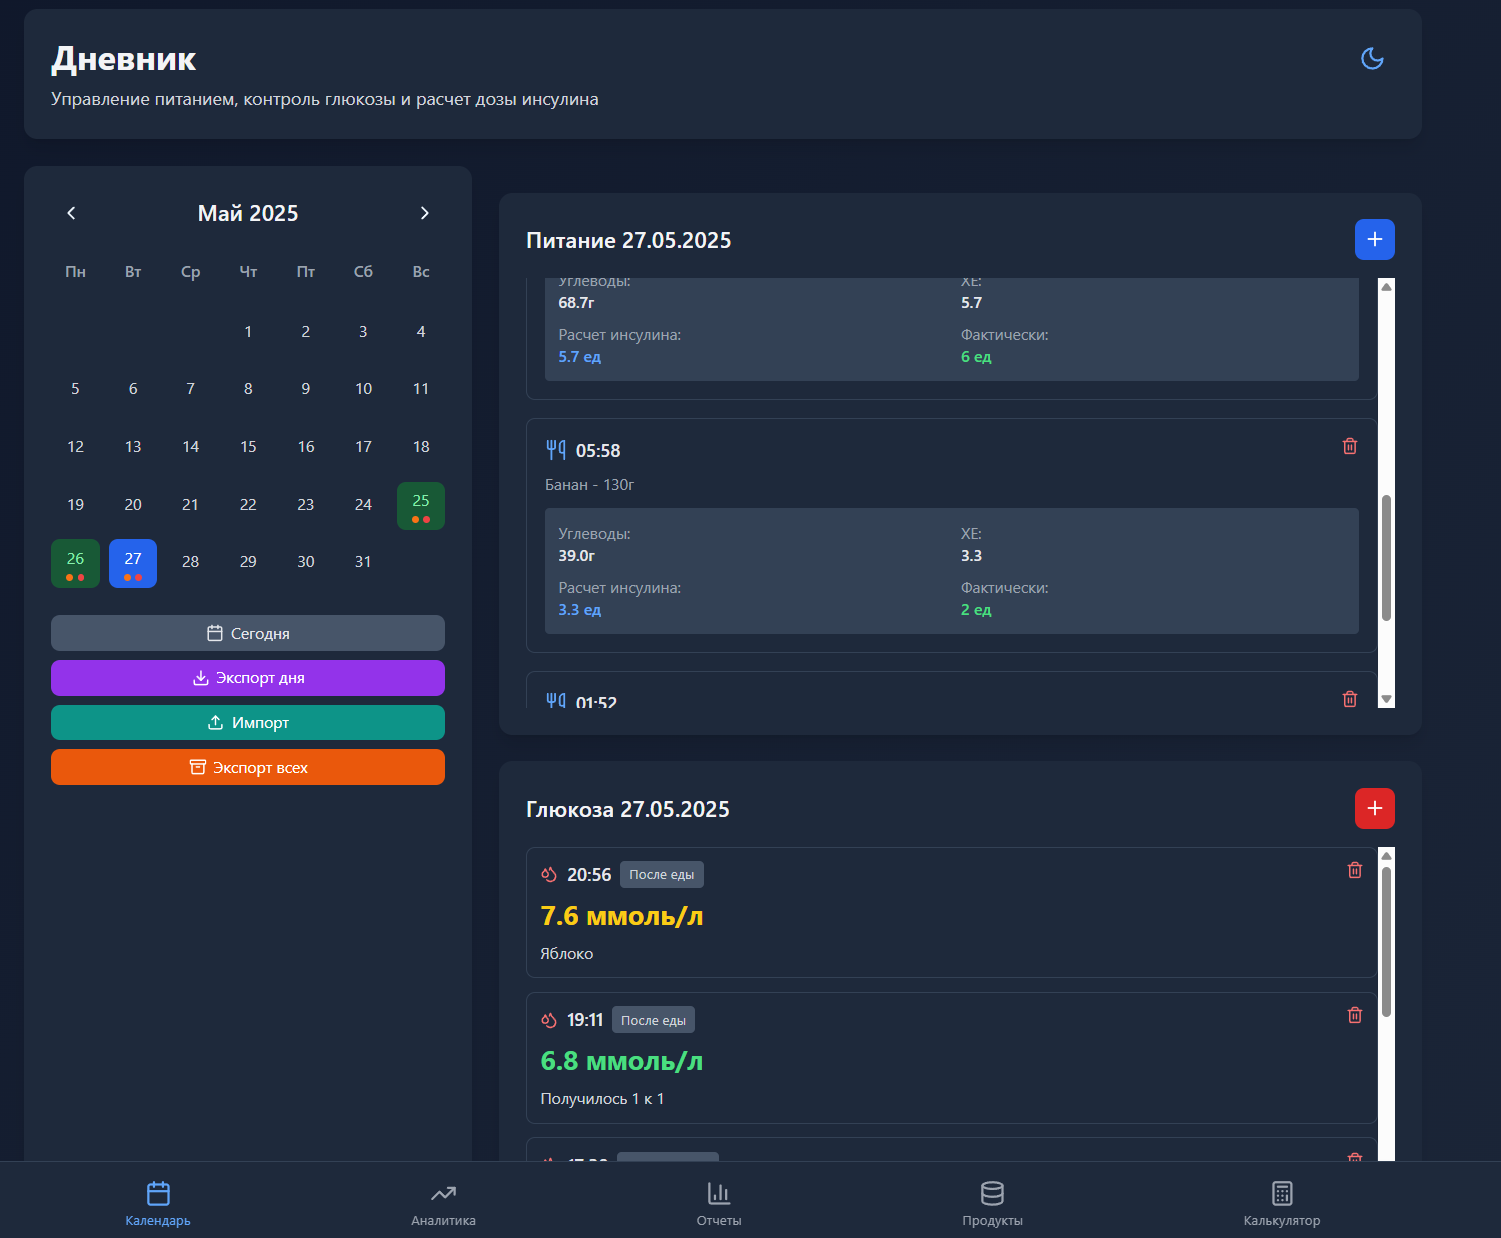
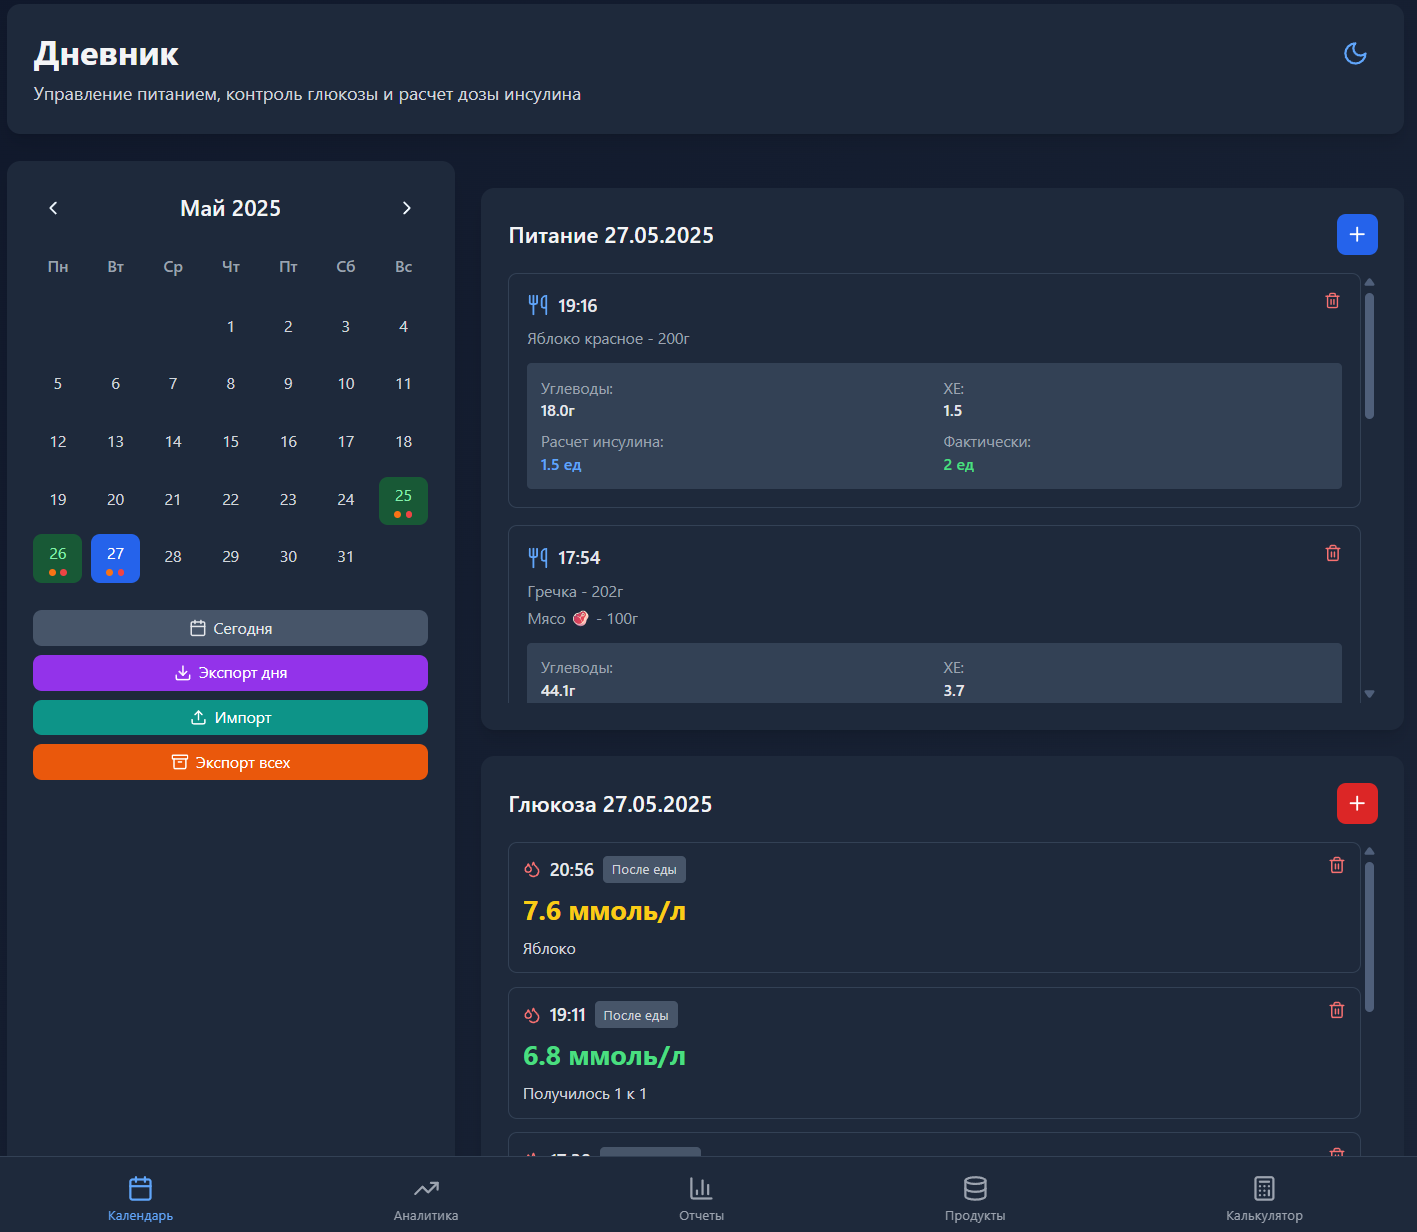
Обновлены изображения и добавлены стили для ползунка скролла в style.css. Улучшено визуальное восприятие интерфейса.

diff --git a/style.css b/style.css
@@ -399,4 +399,32 @@ input{
         justify-content: center; /* Center content within button */
     }
     
+/* Стиль для ползунка скролла (WebKit) */
+::-webkit-scrollbar {
+    width: 8px; /* Ширина ползунка */
+    height: 8px; /* Высота горизонтального ползунка */
+}
+
+/* Дорожка скролла */
+::-webkit-scrollbar-track {
+    background: rgb(30 41 59 / 0.5); /* Полупрозрачный фон, как в тёмной теме */
+    border-radius: 4px;
+}
+
+/* Сам ползунок */
+::-webkit-scrollbar-thumb {
+    background: #6d80a1;
+    border-radius: 4px;
+}
+
+/* Ползунок при наведении */
+::-webkit-scrollbar-thumb:hover {
+    background: #717171;
+}
+
+/* Стиль для Firefox */
+html {
+    scrollbar-width: thin;
+    scrollbar-color: #4f5f7a rgb(30 41 59 / 0.5);
+}
 
